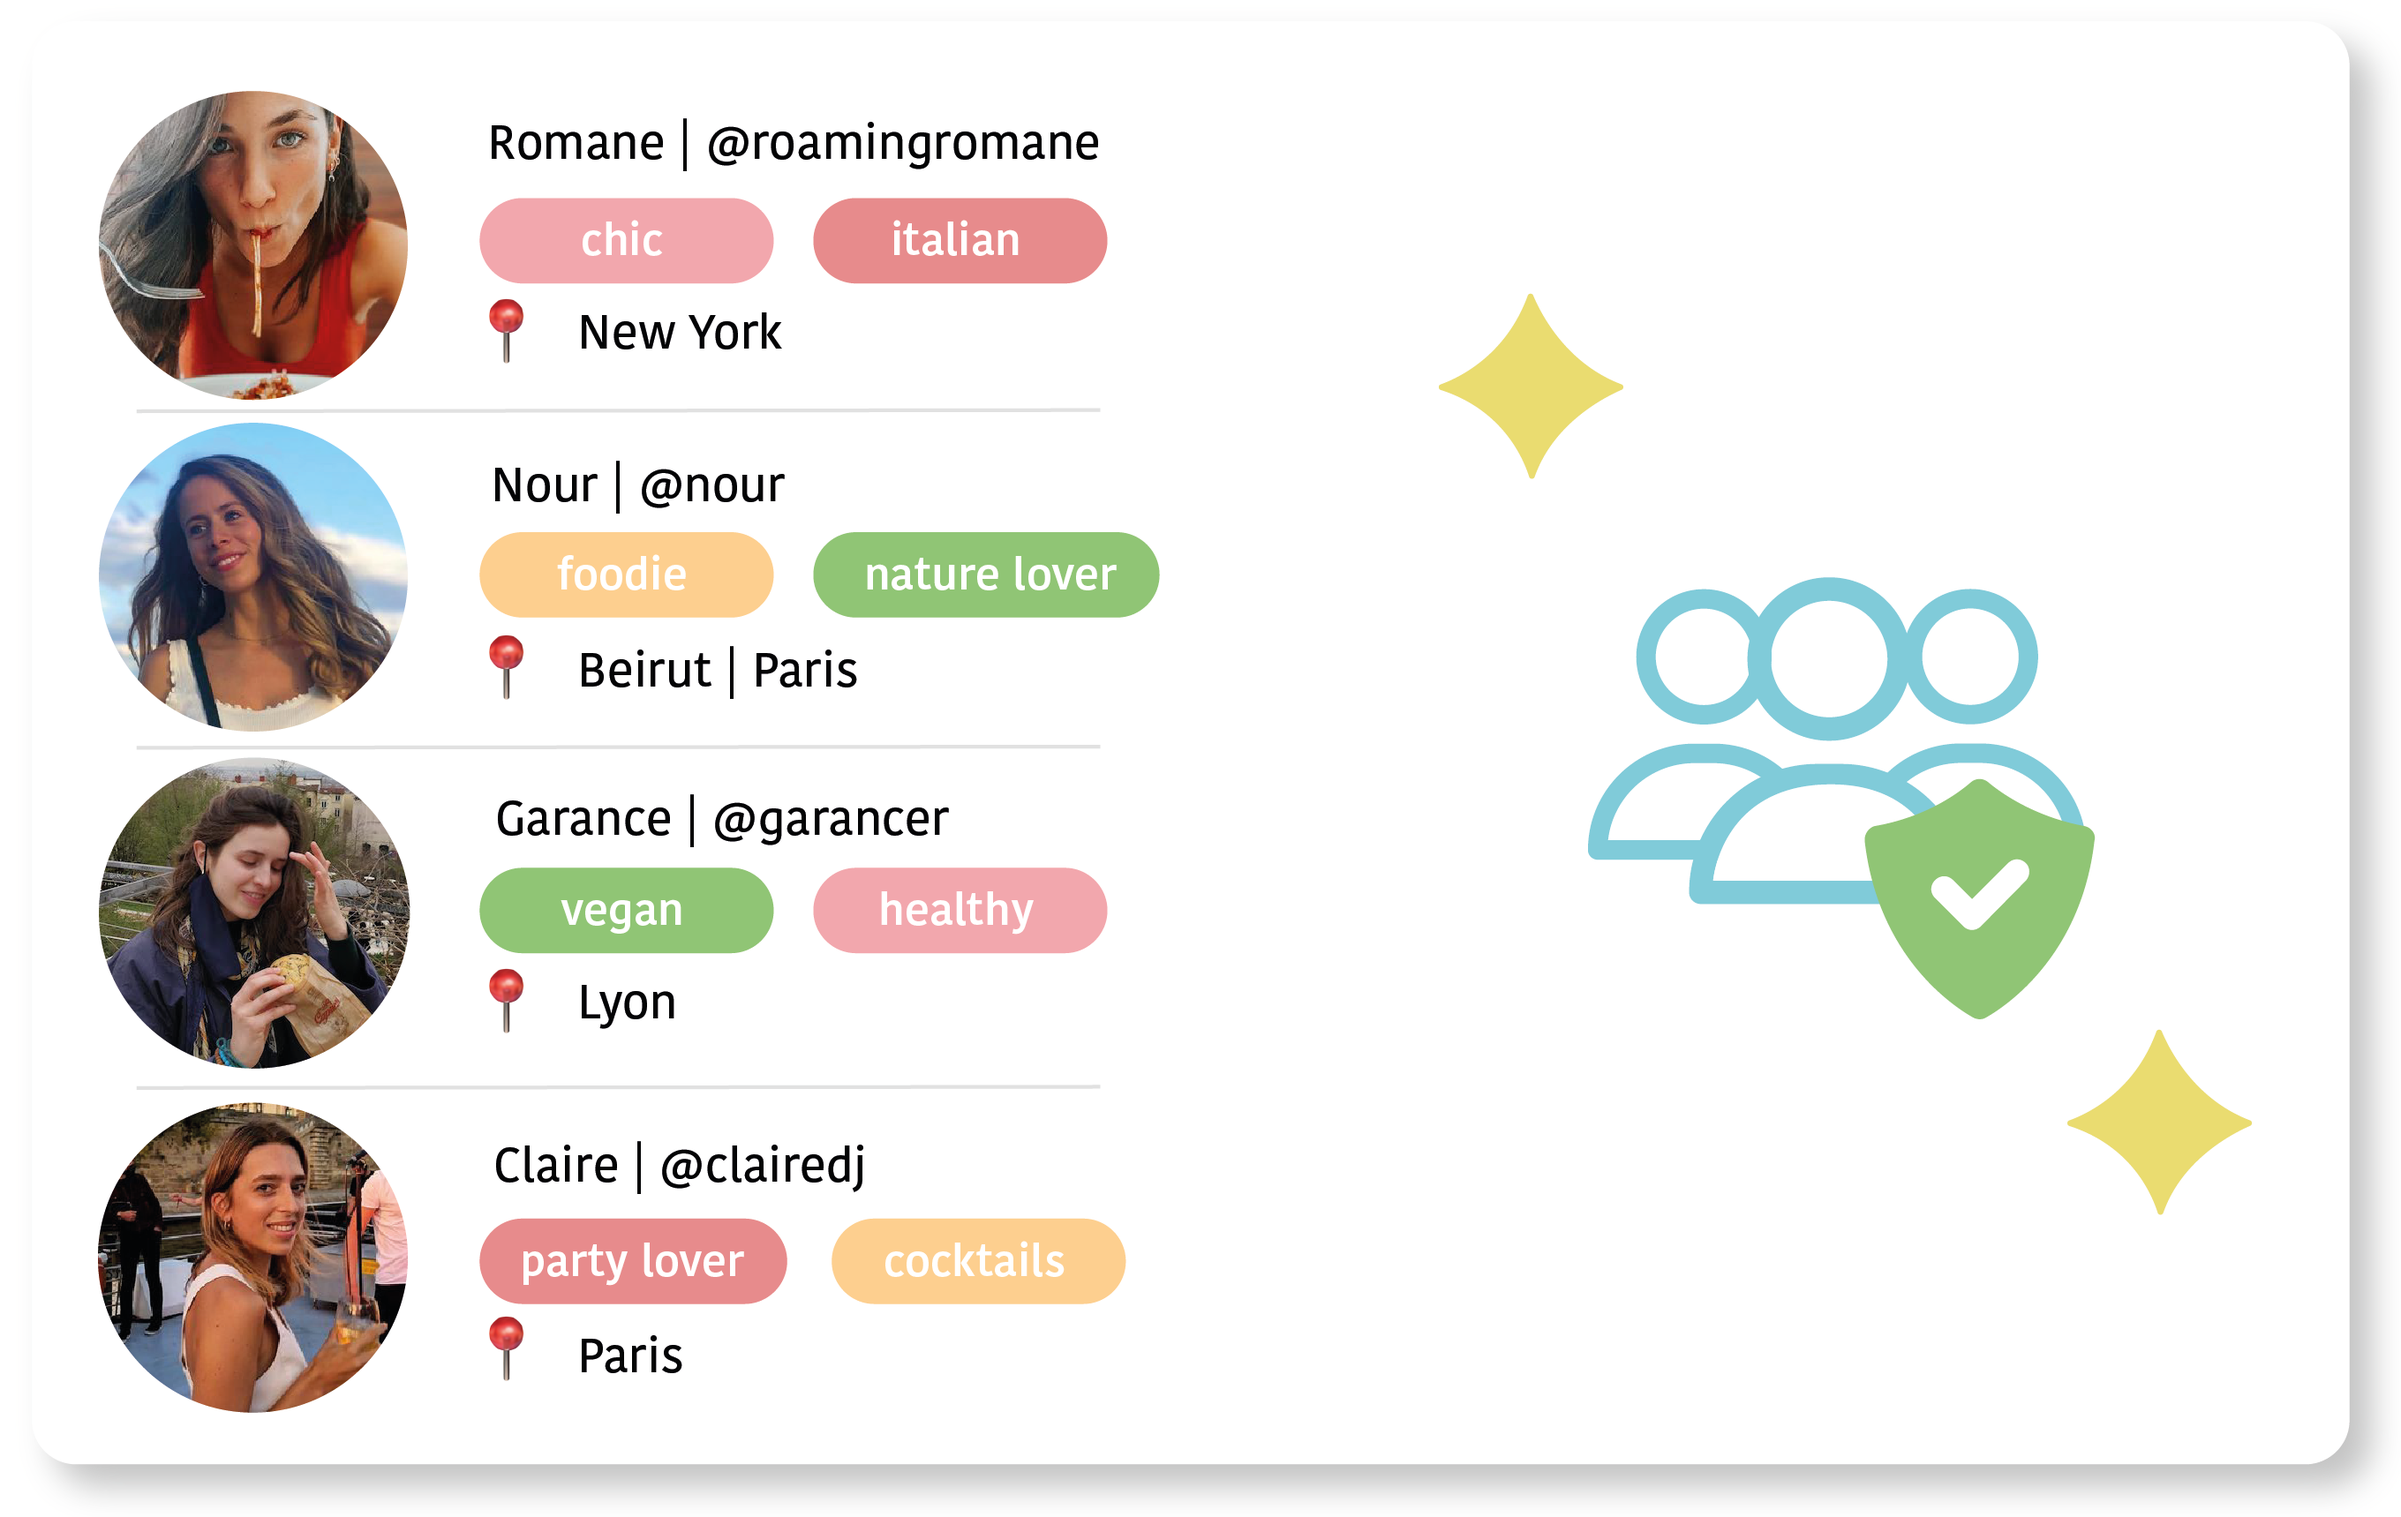
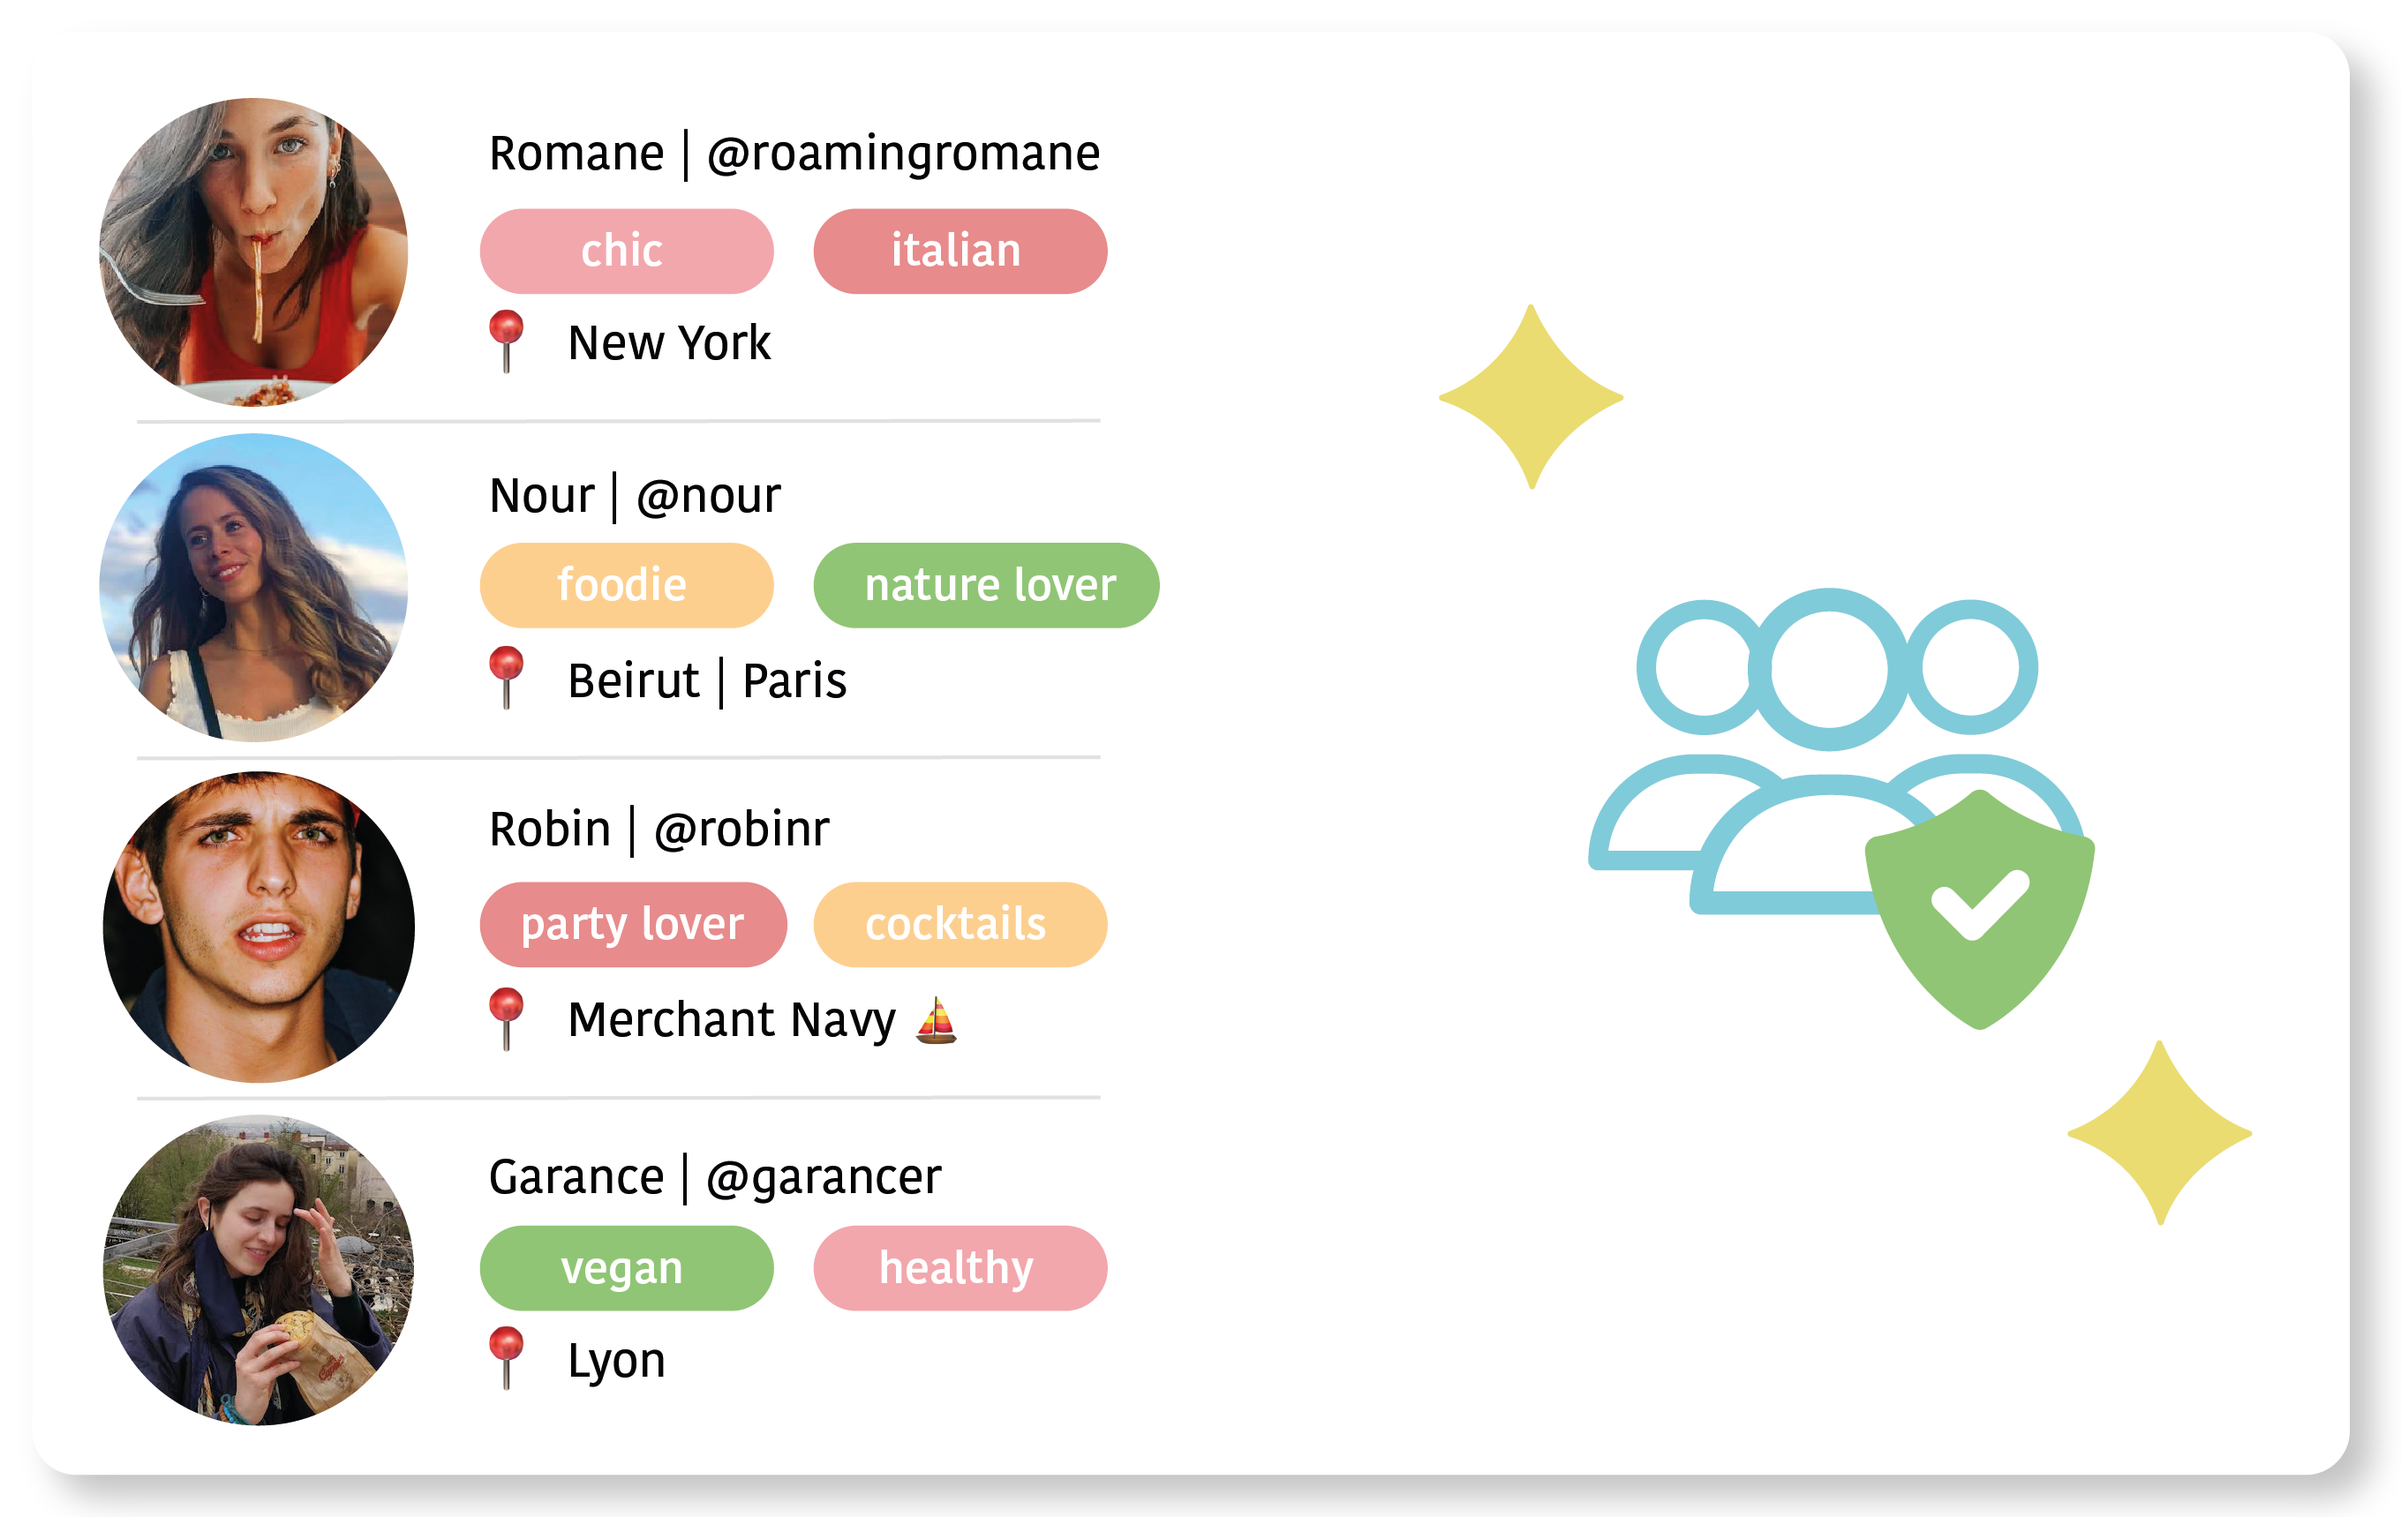
Fix: Modifs Text acc. to Feedback + Img add Robin (guy)

diff --git a/content/french/_index.md b/content/french/_index.md
@@ -44,7 +44,7 @@ service1:
       # - "images/service-2.png"
       # - "images/service-3.png"
       content1 : "et de ceux que tu veux tester"
-      content2 : "et les personnes de mêmes centres d'intérêt"
+      content2 : "et les personnes aux mêmes centres d'intérêt"
       #and tastes
       content3 : "recommandées par des personnes de confiance"
       #"Recommendations you can trust, from your friends and people with similar tastes"
@@ -64,7 +64,7 @@ service:
       images:
       - "images/allinone_fr.webp"
       content : "Fatigué·e d'éparpiller tes bonnes adresses et endroits repérés entre tes notes, screenshots ou encore Collections IG ?
-      Retrouve tout en un endroit centralisé pour les avoir toujours sous la main, facilement accessible !"
+      Retrouve tout dans un endroit centralisé pour les avoir toujours sous la main, facilement accessibles !"
 
       # Fatigué·e de t'éparpiller 
       # toutes tes recommandations
@@ -86,7 +86,7 @@ service:
     - title : "Crée tes propres City guides"
       images:
       - "images/cityguide_fr.webp"
-      content : "Classé par ville dans lesquelles tu as vécu ou par type de nourriture, c'est toi qui choisis ! Le but c'est de partager ces endroits uniques que tu adores ✨ <br> Ajoute tes recommandations rapidement et facilement avec tes propres photos et annotations !"
+      content : "Classés par ville dans lesquelles tu as vécu ou par type (nourriture, choses à voir...), c'est toi qui choisis ! Le but c'est de partager ces endroits uniques que tu adores ✨ <br> Ajoute tes recommandations rapidement et facilement avec tes propres photos et annotations !"
       #gem = pépites ? Not only type of food bc = restos only?
 
 ##################### Feature ##########################

diff --git a/content/english/_index.md b/content/english/_index.md
@@ -76,7 +76,7 @@ service:
     - title : "Create your own City guides"
       images:
       - "images/cityguide.webp"
-      content : "Organised by city you lived in or type of food, you choose! It's about sharing those unique gems that you love ✨ <br> Easily and quickly add your recommendations with your own pictures and notes!"
+      content : "Organised by city you lived in or by type (food, things to do...), you choose! It's about sharing those unique gems that you love ✨ Easily and quickly add your recommendations with your own pictures and notes!"
 
 
 ##################### Feature ##########################

diff --git a/content/french/contact/_index.md b/content/french/contact/_index.md
@@ -4,12 +4,13 @@ subtitle: ""
 # meta description
 description: "Page de Contact pour Sparklee, l'application pour partager ses bonnes adresses"
 draft: false
+
 ---
 
 
-### Nous serions ravis d'avoir vos retours!
+### Nous serions ravis d'avoir vos retours !
 
-Nous créeons Sparklee pour ses (futur.e.s) utilisateur.ice.s ✨<br>
+Nous créons Sparklee pour ses (futur·e·s) utilisateur·ice·s ✨<br>
 Tout retour, remarque ou suggestion sont les bienvenus !
 N'hésitez pas à nous écrire et nous reviendrons vers vous 🤗
 
